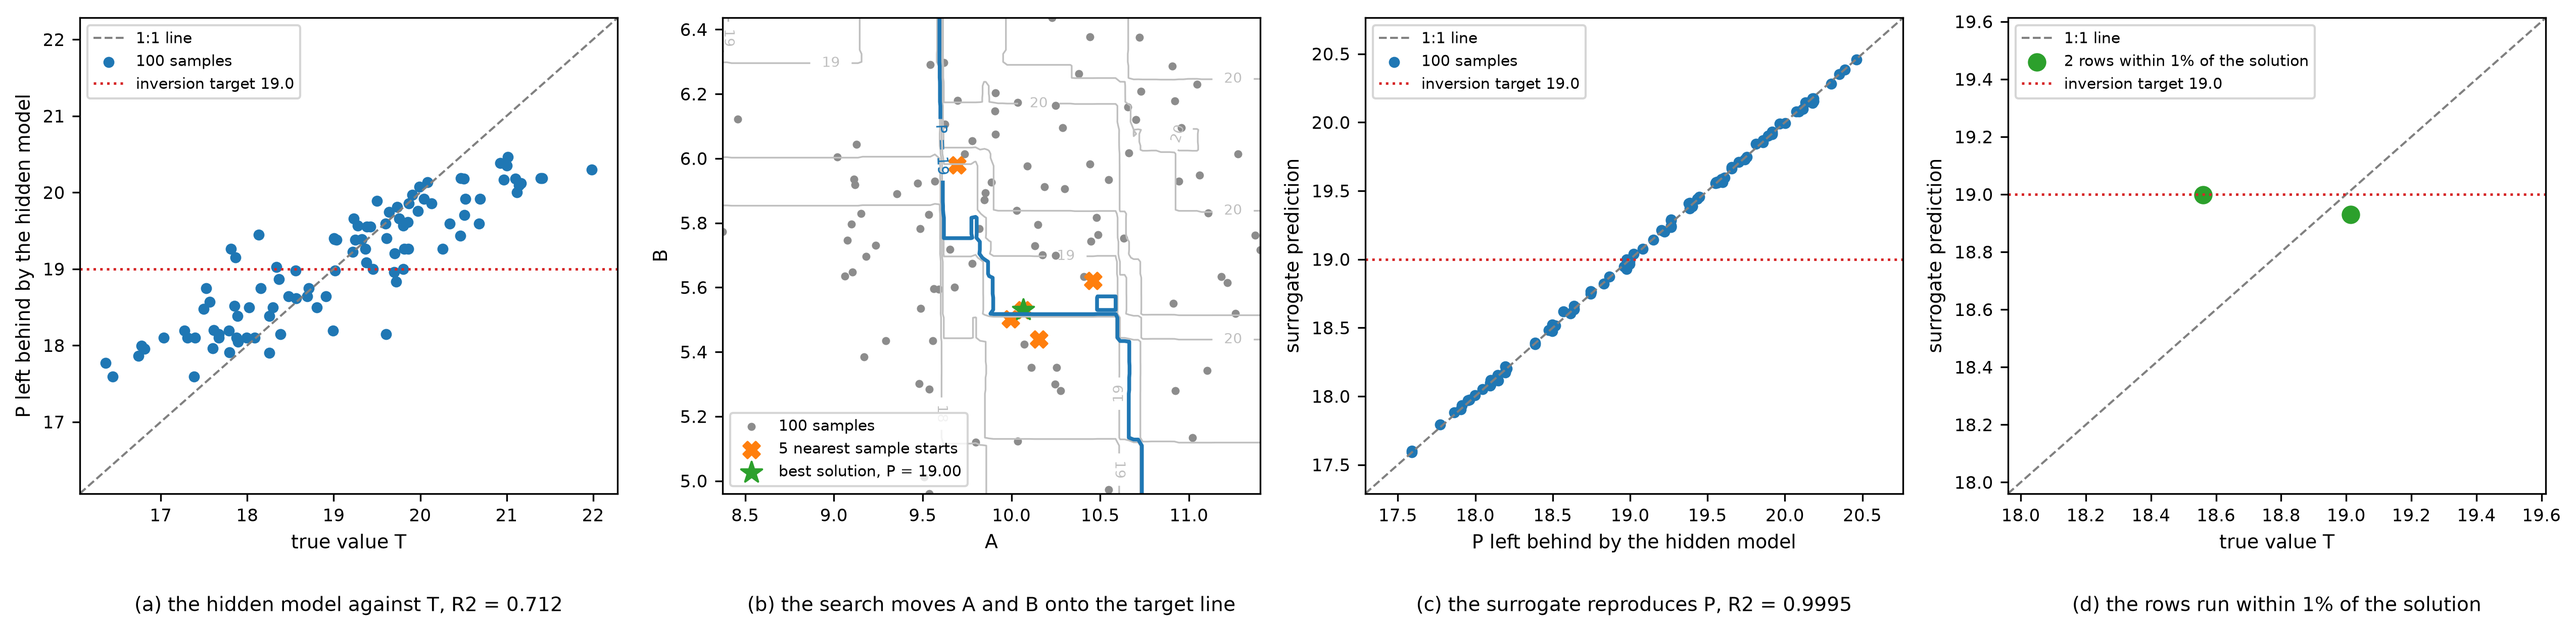
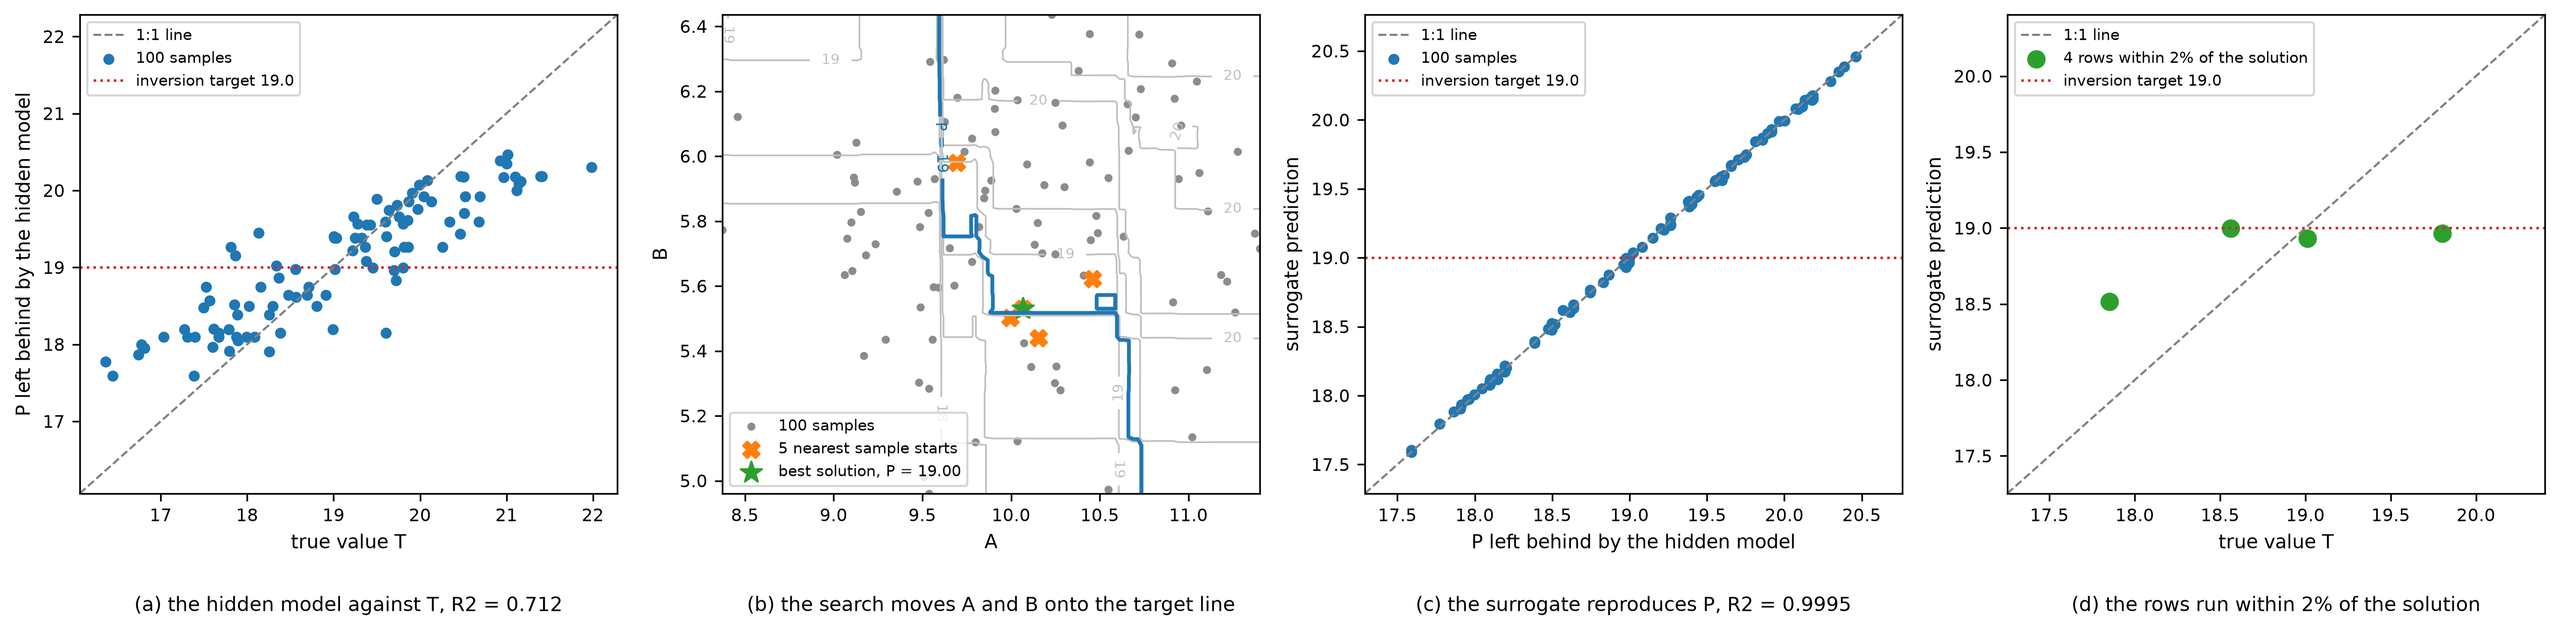
Put the Fig 7 (d) window back at 2%
Reverts the 1% narrowing. Four historical rows fall within 2% of the
solved A = 10.066, B = 5.531, with measured T of 17.85, 18.56, 19.01 and
19.80. The sentence about the evidence being thin at 1% goes with it.

The script keeps counting up rather than returning to 0.13.0, so a
version number never points at two different files.

Claude-Session: https://claude.ai/code/session_015q96DiRELdXugaixWZRR1T

diff --git a/Models/Inversion-Problem/inversion_problem_fig.py b/Models/Inversion-Problem/inversion_problem_fig.py
@@ -1,6 +1,6 @@
 """Draw the Appendix B, Appendix C and Appendix D figures of inversion-problem-ko.md."""
 __author__ = 'yRocket'
-__version__ = "0.13.1.2026.9.22"  # Semantic Versioning: Major.Minor.Patch.Date(YYYY.M.D)
+__version__ = "0.13.2.2026.9.22"  # Semantic Versioning: Major.Minor.Patch.Date(YYYY.M.D)
 
 import argparse
 import pathlib
@@ -26,7 +26,7 @@ APPENDIX_D_FREE: list = ['A', 'B']
 APPENDIX_D_ROWS: int = 100
 APPENDIX_D_TARGET: float = 19.0
 APPENDIX_D_STARTS: int = 5
-APPENDIX_D_TOLERANCE: float = 0.01
+APPENDIX_D_TOLERANCE: float = 0.02
 
 matplotlib.use('Agg')
 
@@ -418,7 +418,7 @@ def build_appendix_d_model() -> tuple:
 
 def fig_7(out_folder: pathlib.Path) -> pathlib.Path:
     """Fig 7: the hidden model against T, the search in the A-B plane, the surrogate against P,
-    and the rows that were actually run within 1% of the solved A and B."""
+    and the rows that were actually run within 2% of the solved A and B."""
     data, surrogate, pca, t2_limit, spe_limit = build_appendix_d_model()
     features = data[APPENDIX_D_FEATURES].to_numpy()
     context = features.mean(axis=0)
@@ -505,7 +505,7 @@ def fig_7(out_folder: pathlib.Path) -> pathlib.Path:
     ax.tick_params(labelsize=font_size(0.9))
     ax.legend(fontsize=font_size(0.8), loc='upper left')
 
-    # the historical rows that were actually run within 1% of the solved A and B
+    # the historical rows that were actually run within 2% of the solved A and B
     near = data[(np.abs(data['A'] - x_solved[0]) <= APPENDIX_D_TOLERANCE * abs(x_solved[0]))
                 & (np.abs(data['B'] - x_solved[1]) <= APPENDIX_D_TOLERANCE * abs(x_solved[1]))]
     near_t = near['T'].to_numpy()

diff --git a/Models/Inversion-Problem/inversion-problem-ko.md b/Models/Inversion-Problem/inversion-problem-ko.md
@@ -1,5 +1,5 @@
 # Inverse Problem and Model Inversion
-Rev. 41 | Created: 2026-08-28 | Updated: 2026-09-22 20:40 CDT
+Rev. 42 | Created: 2026-08-28 | Updated: 2026-09-22 20:55 CDT
 
 학습된 model 은 보통 입력에서 출력을 계산하는 방향으로 쓰인다. 원하는 출력을 먼저 정하고 그것을 만들어 내는 입력을 되찾는 문제가 inverse problem 이고, 이미 학습된 model 을 그 목적에 되돌려 쓰는 방법이 model inversion 이다. 이 문서는 두 용어를 정의하고, 해법을 다섯 축으로 분류한 다음, latent variable model inversion 의 고전적 결과와 model 종류별 inversion 방법을 정리하고, model 을 부를 수 없는 경우와 해의 검증까지 다룬다.
 
@@ -527,7 +527,7 @@ from sklearn.ensemble import GradientBoostingRegressor
 
 FEATURES = ["A", "B", "C", "D", "E"]
 FREE = ["A", "B"]
-N_ROWS, P_TARGET, N_STARTS, TOLERANCE = 100, 19.0, 5, 0.01
+N_ROWS, P_TARGET, N_STARTS, TOLERANCE = 100, 19.0, 5, 0.02
 
 
 def make_dataset(n_rows: int = N_ROWS, seed: int = 0) -> pd.DataFrame:
@@ -616,10 +616,10 @@ print("P at solution     :", round(float(surrogate.predict(solution[None, :])[0]
 print("T2                :", round(t2(solution), 2), "limit", round(t2_limit, 2))
 print("SPE               :", round(spe(solution), 3), "limit", round(spe_limit, 3))
 
-# 4. check the solution against the rows that were actually run within 1% of it
+# 4. check the solution against the rows that were actually run near it
 near = data[(np.abs(data["A"] - best.x[0]) <= TOLERANCE * abs(best.x[0]))
             & (np.abs(data["B"] - best.x[1]) <= TOLERANCE * abs(best.x[1]))]
-print("rows within 1%    :", len(near))
+print("rows within 2%    :", len(near))
 print("their true T      :", np.round(np.sort(near["T"].to_numpy()), 2))
 ```
 
@@ -635,8 +635,8 @@ solved A, B       : [10.066  5.531]
 P at solution     : 19.0017
 T2                : 0.0 limit 5.99
 SPE               : 0.063 limit 0.468
-rows within 1%    : 2
-their true T      : [18.56 19.01]
+rows within 2%    : 4
+their true T      : [17.85 18.56 19.01 19.8 ]
 ```
 
 `vendor_model` 은 `P` 열을 남긴 뒤 `del` 로 가려진다. 그 뒤의 계산은 표의 `A`–`E` 와 `P` 만 읽으므로, model 은 그대로 있되 이 code 에서 닿을 수 없는 상황이 된다.
@@ -647,16 +647,16 @@ their true T      : [18.56 19.01]
 
 <img src="inversion-problem-ko_fig/appendix-d-inversion.png" width="1400" style="max-width: 100%;" alt="Fig 7">
 
-Fig 7. Appendix D hidden model against T, the search in the A–B plane, the surrogate against P, and the rows run within 1% of the solution
+Fig 7. Appendix D hidden model against T, the search in the A–B plane, the surrogate against P, and the rows run within 2% of the solution
 
 - (a) 는 가려진 model 의 parity plot 이다. 가로축은 참값 `T` 이고 세로축은 그 model 이 남긴 `P` 이며, $R^{2} = 0.712$ 이다. `T` 는 평균 19.1, 표준편차 1.3 으로 목표 19.0 을 중심에 두고 몰려 있어 100 행 가운데 51 행이 목표에서 1 이내에 들며, 뒤집을 대상의 정확도가 여기까지이므로 inversion 의 정확도도 이 값을 넘지 못한다.
 - (b) 는 `A`–`B` 평면이다. 회색 등고선은 `C`, `D`, `E` 를 평균에 고정했을 때 surrogate 가 내는 `P` 이고, 굵은 선이 목표 19.0 의 등위선이다. 주황 표식 다섯 개가 출발점이고, 별이 그중 목표에 가장 가까운 해이다.
 - (c) 는 surrogate 가 `P` 를 얼마나 따라가는지 보인다. 가로축은 가려진 model 이 남긴 `P` 열이고 세로축은 surrogate 의 예측이며, $R^{2} = 0.9995$ 로 점이 1:1 선에 붙어 있다.
-- (d) 는 해의 `A` = 10.066, `B` = 5.531 에서 1% 안에 든 historical 행만 그린 것이다. 가로축이 그 행의 참값 `T`, 세로축이 surrogate 의 예측이며, 그런 행은 2 개이고 참값은 18.56 과 19.01 이다.
+- (d) 는 해의 `A` = 10.066, `B` = 5.531 에서 2% 안에 든 historical 행만 그린 것이다. 가로축이 그 행의 참값 `T`, 세로축이 surrogate 의 예측이며, 그런 행은 4 개이고 참값은 17.85, 18.56, 19.01, 19.80 이다.
 
 (c) 의 $R^{2}$ 는 이 예시가 가려진 model 과 같은 계열인 `GradientBoostingRegressor` 를 surrogate 로 쓴 결과이다. 실제로는 가려진 model 의 계열을 알 수 없어 surrogate 가 다른 계열이 되고, 재현 오차는 이보다 커진다. 해의 오차를 정하는 것이 그 재현 오차이므로, surrogate 를 고른 뒤에는 (c) 같은 그림으로 그 크기부터 확인한다.
 
-(d) 는 해를 실제와 맞대어 본 것이다. 두 행의 surrogate 예측은 모두 19.0 부근인데 참값은 18.56 과 19.01 이어서, 같은 조건을 실제로 운전해도 목표를 그대로 얻지는 못한다. 1% 라는 좁은 창에 historical data 가 두 행밖에 없다는 것 자체도 읽을 거리이며, 해 주변의 실측이 이만큼 드물면 검증에 쓸 근거가 그만큼 얇다. 이 퍼짐은 (a) 가 보인 가려진 model 의 $R^{2} = 0.712$ 에서 온다. Surrogate 는 그 model 을 $R^{2} = 0.9995$ 로 따라가지만 그 model 이 참값을 설명하지 못하는 몫까지 메워 주지는 못하므로, 두 오차 가운데 큰 쪽이 결과를 정한다. 6 의 검증 항목이 말한 대로 얻은 조건을 실험으로 확인하고 그 결과를 데이터에 더해야 하는 이유가 (d) 에 그대로 보인다.
+(d) 는 해를 실제와 맞대어 본 것이다. 네 행의 surrogate 예측은 모두 19.0 부근인데 참값은 17.85 에서 19.80 까지 퍼져 있어, 같은 조건을 실제로 운전해도 목표를 그대로 얻지는 못한다. 이 퍼짐은 (a) 가 보인 가려진 model 의 $R^{2} = 0.712$ 에서 온다. Surrogate 는 그 model 을 $R^{2} = 0.9995$ 로 따라가지만 그 model 이 참값을 설명하지 못하는 몫까지 메워 주지는 못하므로, 두 오차 가운데 큰 쪽이 결과를 정한다. 6 의 검증 항목이 말한 대로 얻은 조건을 실험으로 확인하고 그 결과를 데이터에 더해야 하는 이유가 (d) 에 그대로 보인다.
 
 등고선이 계단 모양이다. Surrogate 가 4.3 의 조각별 상수 함수이므로 예측이 문턱값을 넘을 때만 바뀌고, 그 사이에서는 상수로 남아 한 계단을 이룬다.
 
